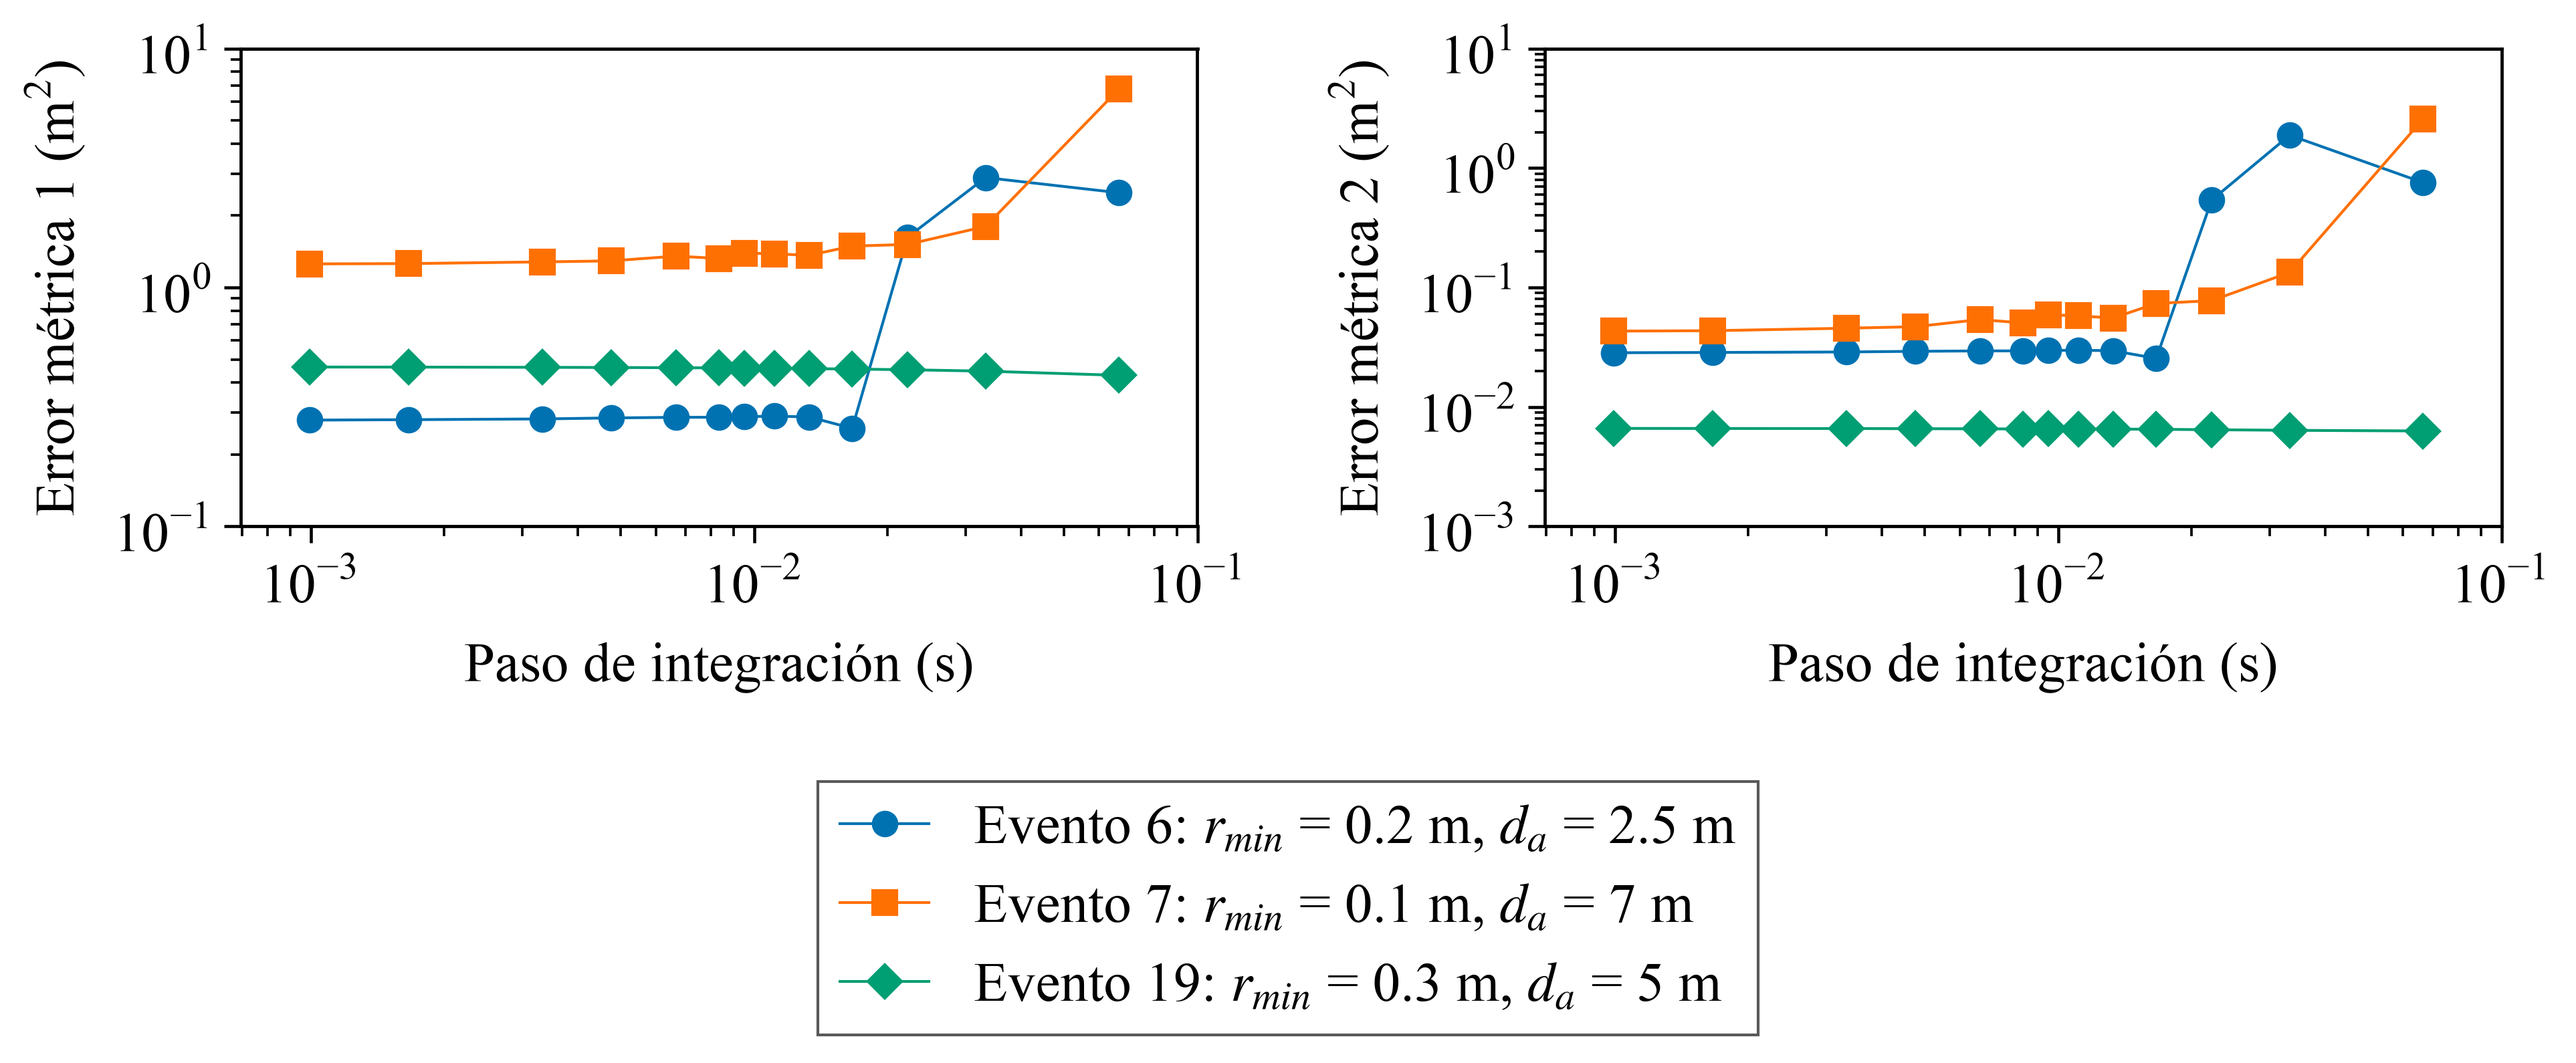
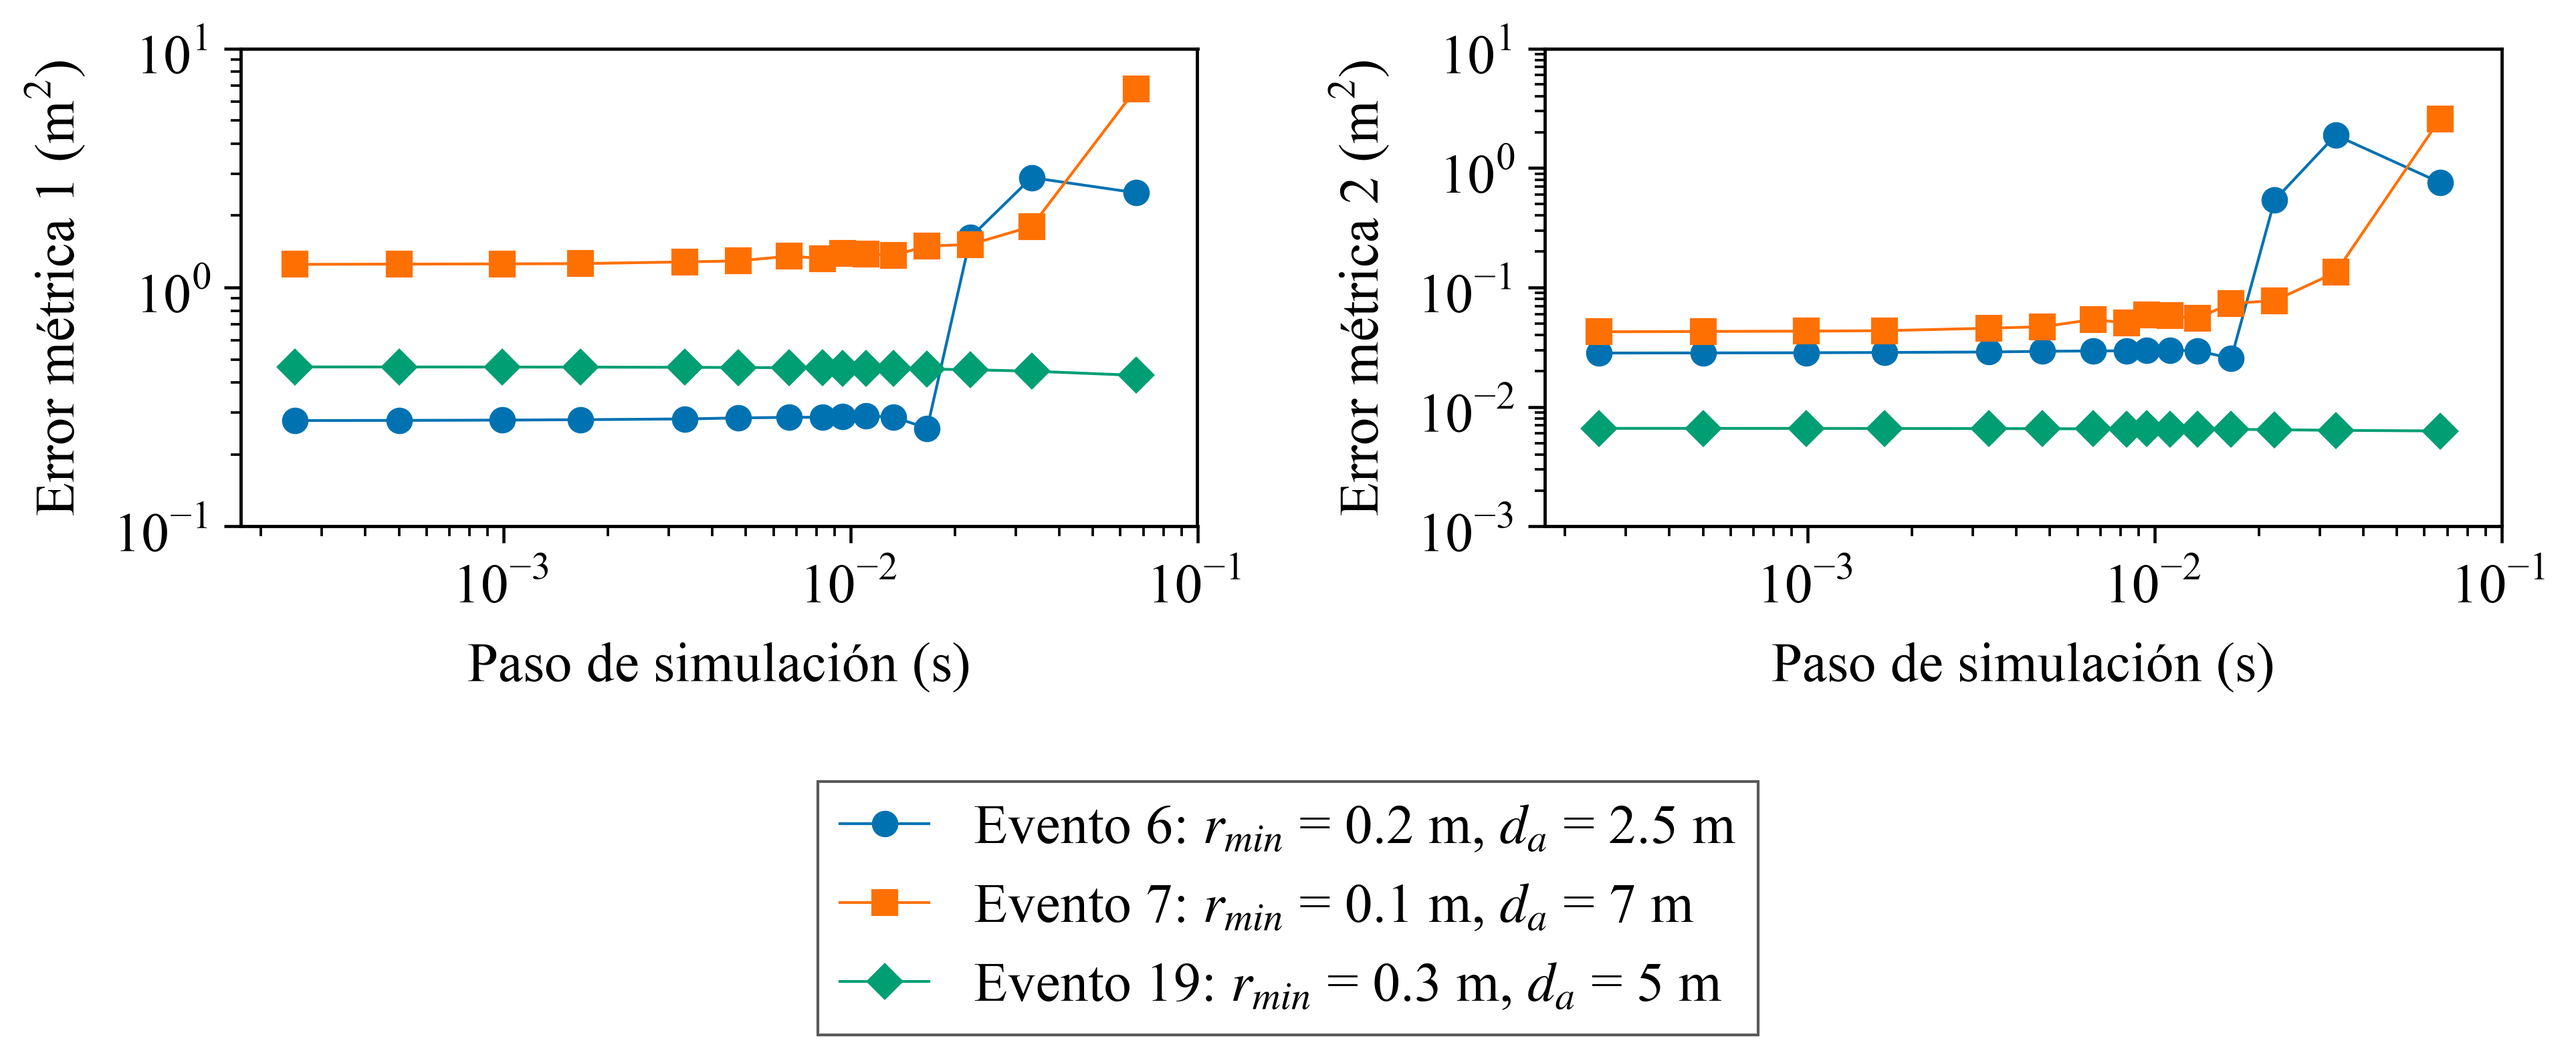
implementacion

diff --git a/docs/presentation/secciones/implementacion.tex b/docs/presentation/secciones/implementacion.tex
@@ -1,22 +1,27 @@
-\begin{frame}{Arquitectura del motor (C++)}
-    \centering
+\begin{frame}{Implementación}
+  \framesubtitle{Motor de simulación}
+  \begin{algorithmic}[1]
+    \Require $\vv{r}_i(0)$, $\vv{v}_i(0)$, target final y $v_{di}$ de cada peatón, $t_f$, $dt$, $dt_2$
+    \State $n \gets \mathrm{round}(dt_2/dt)$, \quad $dt \gets dt_2/n$
+    \For{$k = 1,\, 2,\, \dots,\, t_f/dt_2$}
+      \For{$n$ pasos de integración}
+        \For{cada peatón $i$}
+          \State $\vv{e}^{\,target}_i \gets$ hacia target temporal si hay conflicto; si no, hacia target final
+          \State $\vv{F}_i \gets \vv{F}_{Di} + \vv{F}_{Gi}$
+        \EndFor
+        \State $\vv{v}_i \gets \vv{v}_i + (\vv{F}_i/m_i)\,dt$
+        \State $\vv{r}_i \gets \vv{r}_i + \vv{v}_i\,dt$
+      \EndFor
+      \State guardar $t = k\,dt_2$, $\vv{r}_i$, $\vv{v}_i$
+    \EndFor
+  \end{algorithmic}
 \end{frame}
 
-\begin{frame}[fragile]{Integración con Verlet}
-  \begin{columns}
-    \begin{column}{0.72\textwidth}
-      \begin{algorithmic}[1]
-        \Require $\vv{r}_i(0),\, \vv{v}_i(0)$, obstáculos, $dt$, $t_f$, $n$
-        \State $\vv{r}_i(-dt) \gets \vv{r}_i - \vv{v}_i\,dt + \frac{dt^2}{2m}\vv{F}_i$
-        \For{$t = 0,\, dt,\, \dots,\, t_f$}
-          \State $\vv{F}_i \gets \sum_j \vv{F}_{ij}$
-          \State frescas con $\xi_{io} > 0$ $\to$ usadas
-          \State $\vv{r}_i(t+dt) \gets 2\vv{r}_i(t) - \vv{r}_i(t-dt) + \frac{dt^2}{m}\vv{F}_i$
-          \State $\vv{v}_i(t) \gets \frac{\vv{r}_i(t+dt) - \vv{r}_i(t-dt)}{2\,dt}$
-          \If{paso múltiplo de $n$} escribir $t,\, \vv{r}_i,\, \vv{v}_i$, estado
-          \EndIf
-        \EndFor
-      \end{algorithmic}
-    \end{column}
-  \end{columns}
+\begin{frame}{Implementación}
+  \framesubtitle{Elección del paso de simulación}
+  \centering
+  \includegraphics[width=\linewidth,height=0.70\textheight,keepaspectratio]{dt_convergencia.png}
+
+  \vspace{4pt}
+  {\large Paso de simulación $dt = 10^{-3}\uni{s}$; \quad paso para guardar estado $dt_2 = \Delta t_{exp}$}
 \end{frame}

diff --git a/scripts/plot_dt_convergence.py b/scripts/plot_dt_convergence.py
@@ -31,7 +31,7 @@ from plot_style import MARKERS, SERIES, apply_academic_style, save_figure, style
 
 REPO = Path(__file__).resolve().parents[1]
 DT2 = 1.0 / 15.0192  # paso de impresión del motor (s), igual al muestreo experimental
-DEFAULT_STEPS = [1, 2, 3, 4, 5, 6, 7, 8, 10, 14, 20, 40, 67]
+DEFAULT_STEPS = [1, 2, 3, 4, 5, 6, 7, 8, 10, 14, 20, 40, 67, 133, 266]
 DEFAULT_CASES = ["6,0.2,2.5", "7,0.1,7", "19,0.3,5"]
 
 
@@ -108,7 +108,7 @@ def main():
                     color=SERIES[k % len(SERIES)], linestyle="-", linewidth=1.0, label=label)
         ax.set_xscale("log")
         ax.set_yscale("log")
-        style_axes(ax, "Paso de integración (s)", ylabel)
+        style_axes(ax, "Paso de simulación (s)", ylabel)
         # el eje y va en décadas enteras, así siempre hay al menos dos potencias de 10 rotuladas
         ax.set_xlim(dts.min() * 0.7, 10.0 ** np.ceil(np.log10(dts.max())))
         values = np.concatenate([results[case][:, column] for case in args.cases])

diff --git a/docs/presentation/secciones/introduccion.tex b/docs/presentation/secciones/introduccion.tex
@@ -35,14 +35,14 @@
 \begin{frame}{Fundamentos}
   \framesubtitle{Capa de elusión: target temporal}
   \large
-  Parábola por $i$, el punto de paso $P = (s,\ \ell + R)$ y el target final:
+  Parábola por $i$, punto de paso $P = (s,\ \ell + R)$ y target final:
   \[
     y(x) = (\ell + R)\,\frac{x\,(D - x)}{s\,(D - s)}
     \qquad\Rightarrow\qquad
     y'(0) = \frac{(\ell + R)\,D}{s\,(D - s)}
   \]
   \vspace{4pt}
-  Target temporal, sobre la tangente a la parábola en $i$:
+  Target temporal, sobre tangente a parábola en $i$:
   \[
     \vv{x}^{\,temp}_i = \vv{r}_i + s\,\hat{\vv{u}} + s\,y'(0)\,\hat{\vv{n}}
   \]
